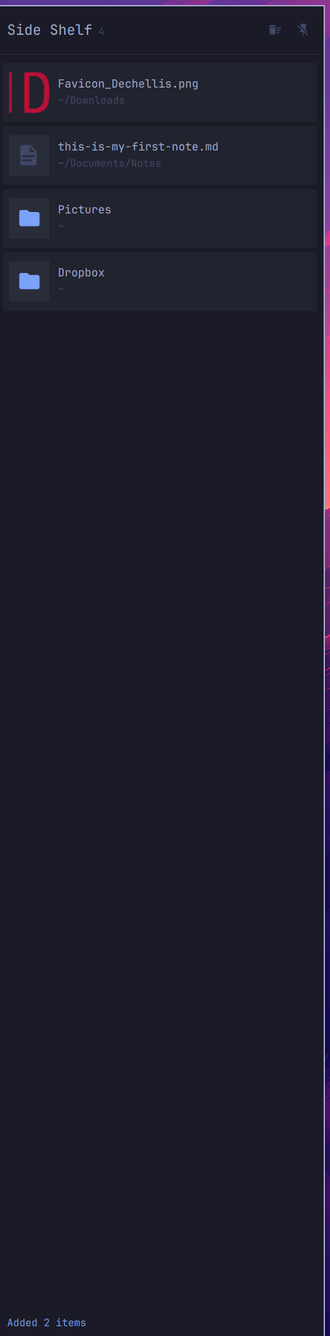
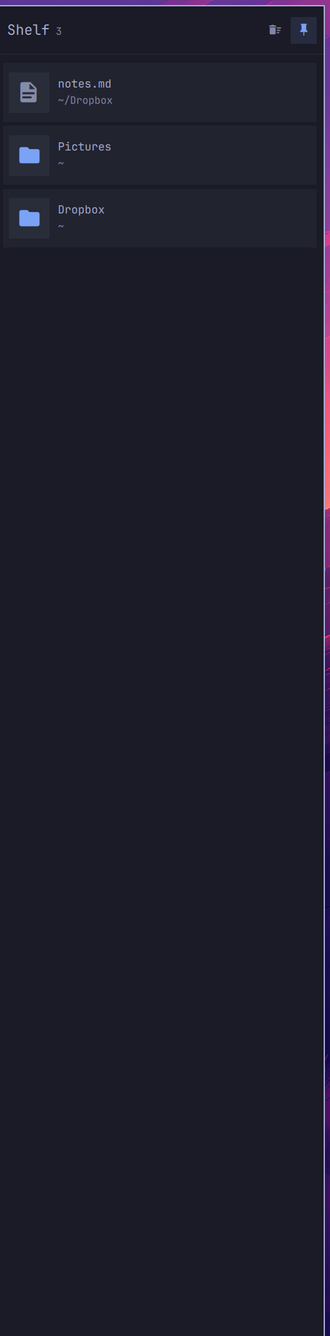
Rename to Shelf
"Side Shelf" was accurate when it only ever hung off the right. Now that it
lives on any of the four edges, the "Side" is a limit the thing no longer has.

Renamed all the way through rather than only where it shows: plugin id
`sridhar.side-shelf` -> `sridhar.shelf`, repo omarchy-side-shelf ->
omarchy-shelf, panel header, README, keybinding comments. The IPC target and
the CLI were already `shelf` and `omarchy-shelf`, so the three now agree
instead of the id being the odd one out.

Both screenshots retaken -- they had the old name written across their headers,
which is the one place a rename cannot be done with sed.

The state file was already `shelf.json` and is untouched, so nobody's shelf
empties over a rename.

Claude-Session: https://claude.ai/code/session_01SabYGmkM7nARXdXYaA8pH4

diff --git a/Service.qml b/Service.qml
@@ -686,7 +686,7 @@ Scope {
           anchors.left: parent.left
           anchors.leftMargin: Style.spacing.sm
           anchors.verticalCenter: parent.verticalCenter
-          text: "Side Shelf"
+          text: "Shelf"
           color: root.foreground
           font.family: root.fontFamily
           font.pixelSize: Style.font.title

diff --git a/README.md b/README.md
@@ -1,13 +1,13 @@
-# Side Shelf
+# Shelf
 
-An Omarchy shell plugin (`sridhar.side-shelf`): a sliding drop zone on a screen
-edge. Throw files and folders at the edge to park them, click to open them,
-drag them back out into whatever needs them later. Pin it to keep it open. It
-lives on the right by default and moves to any of the four edges.
+An Omarchy shell plugin (`sridhar.shelf`): a drop zone that slides out of a
+screen edge. Throw files and folders at the edge to park them, click to open
+them, drag them back out into whatever needs them later. Pin it to keep it
+open. It lives on the right by default and moves to any of the four edges.
 
-<img src="panel.png" alt="The Side Shelf panel down the right edge of the screen: a header reading Side Shelf with an item count and clear and pin buttons, then rows for a PNG with a live thumbnail, a markdown file, and two folders, each showing its name over its parent directory, and a footer line reading Added 2 items." width="330">
+<img src="panel.png" alt="The Shelf panel down the right edge of the screen: a header reading Shelf with an item count and clear and pin buttons, then rows for a markdown file and two folders, each showing its name over its parent directory." width="330">
 
-<img src="strip.png" alt="The left end of the same shelf moved to the top edge: a short wide strip reading Side Shelf with an item count, then two folder chips showing just their names. The clear and pin buttons sit at the far right of the strip, off the end of this crop." width="640">
+<img src="strip.png" alt="The left end of the same shelf moved to the top edge: a short wide strip reading Shelf with an item count, then chips for a markdown file and two folders showing just their names. The clear and pin buttons sit at the far right of the strip, off the end of this crop." width="640">
 
 ## Using it
 
@@ -77,7 +77,7 @@ rests on its edge or a drag arrives there. Add one in
 
 ```lua
 o.bind("SUPER + ALT + P", "Pin the shelf", "omarchy-shelf pin-toggle")
-o.bind("SUPER + ALT + D", "Side Shelf", "omarchy-shelf toggle")
+o.bind("SUPER + ALT + D", "Shelf", "omarchy-shelf toggle")
 ```
 
 Pick a combo that is actually free. `SUPER + ALT + S` is the obvious guess and
@@ -91,7 +91,7 @@ only view that shows both.
 `bin/omarchy-shelf` is a thin wrapper over the shell IPC. Put it on `PATH`:
 
 ```bash
-ln -s ~/.config/omarchy/plugins/sridhar.side-shelf/bin/omarchy-shelf ~/.local/bin/
+ln -s ~/.config/omarchy/plugins/sridhar.shelf/bin/omarchy-shelf ~/.local/bin/
 ```
 
 ```bash
@@ -137,15 +137,15 @@ State lives in `~/.local/state/omarchy/shelf.json`.
 ## Install
 
 ```bash
-omarchy plugin add https://github.com/srikat/omarchy-side-shelf.git --enable --yes
+omarchy plugin add https://github.com/srikat/omarchy-shelf.git --enable --yes
 ```
 
 Plugins run as unsandboxed code inside `omarchy-shell`, so `omarchy plugin add`
 lands them disabled by default and asks you to review the code first. Drop
 `--enable --yes` to take that path; it is four small files.
 
-Update or remove it later with `omarchy plugin update sridhar.side-shelf` and
-`omarchy plugin remove sridhar.side-shelf`.
+Update or remove it later with `omarchy plugin update sridhar.shelf` and
+`omarchy plugin remove sridhar.shelf`.
 
 ## Requirements
 
@@ -203,10 +203,9 @@ Nothing here branches on it.
 | `ShelfModel.js` | pure helpers — paths, uris, icons, serialisation |
 | `bin/omarchy-shelf` | CLI over the IPC target |
 
-The plugin id and display name are `sridhar.side-shelf` / "Side Shelf", but the
-IPC target and the CLI are the shorter `shelf` / `omarchy-shelf` —
-`omarchy-side-shelf` is a lot to type at a prompt. If something else on your
-system already claims the `shelf` IPC target, change `IpcHandler.target` in
+The plugin id, the IPC target and the CLI all say the same thing:
+`sridhar.shelf`, `shelf`, `omarchy-shelf`. If something else on your system
+already claims the `shelf` IPC target, change `IpcHandler.target` in
 `Service.qml` and `IPC_TARGET` in `bin/omarchy-shelf` to match.
 
 ### Hacking on it
@@ -215,9 +214,9 @@ Clone anywhere and symlink the checkout in, so edits land in the repo rather
 than in `~/.config`:
 
 ```bash
-git clone https://github.com/srikat/omarchy-side-shelf.git
-ln -s "$PWD/omarchy-side-shelf" ~/.config/omarchy/plugins/sridhar.side-shelf
-omarchy-shell shell rescanPlugins && omarchy plugin enable sridhar.side-shelf
+git clone https://github.com/srikat/omarchy-shelf.git
+ln -s "$PWD/omarchy-shelf" ~/.config/omarchy/plugins/sridhar.shelf
+omarchy-shell shell rescanPlugins && omarchy plugin enable sridhar.shelf
 ```
 
 ### Debugging
@@ -233,7 +232,7 @@ Use `omarchy restart shell` after editing.
 ## Overlap with Ledge
 
 `bylund.ledge` does the same job from the bar: a drop target on the bar icon
-and a popup card under it. Side Shelf is the same idea against the screen edge
+and a popup card under it. Shelf is the same idea against the screen edge
 instead, with a pin. Running both is fine — they keep separate lists — but one
 of them is probably redundant.
 
